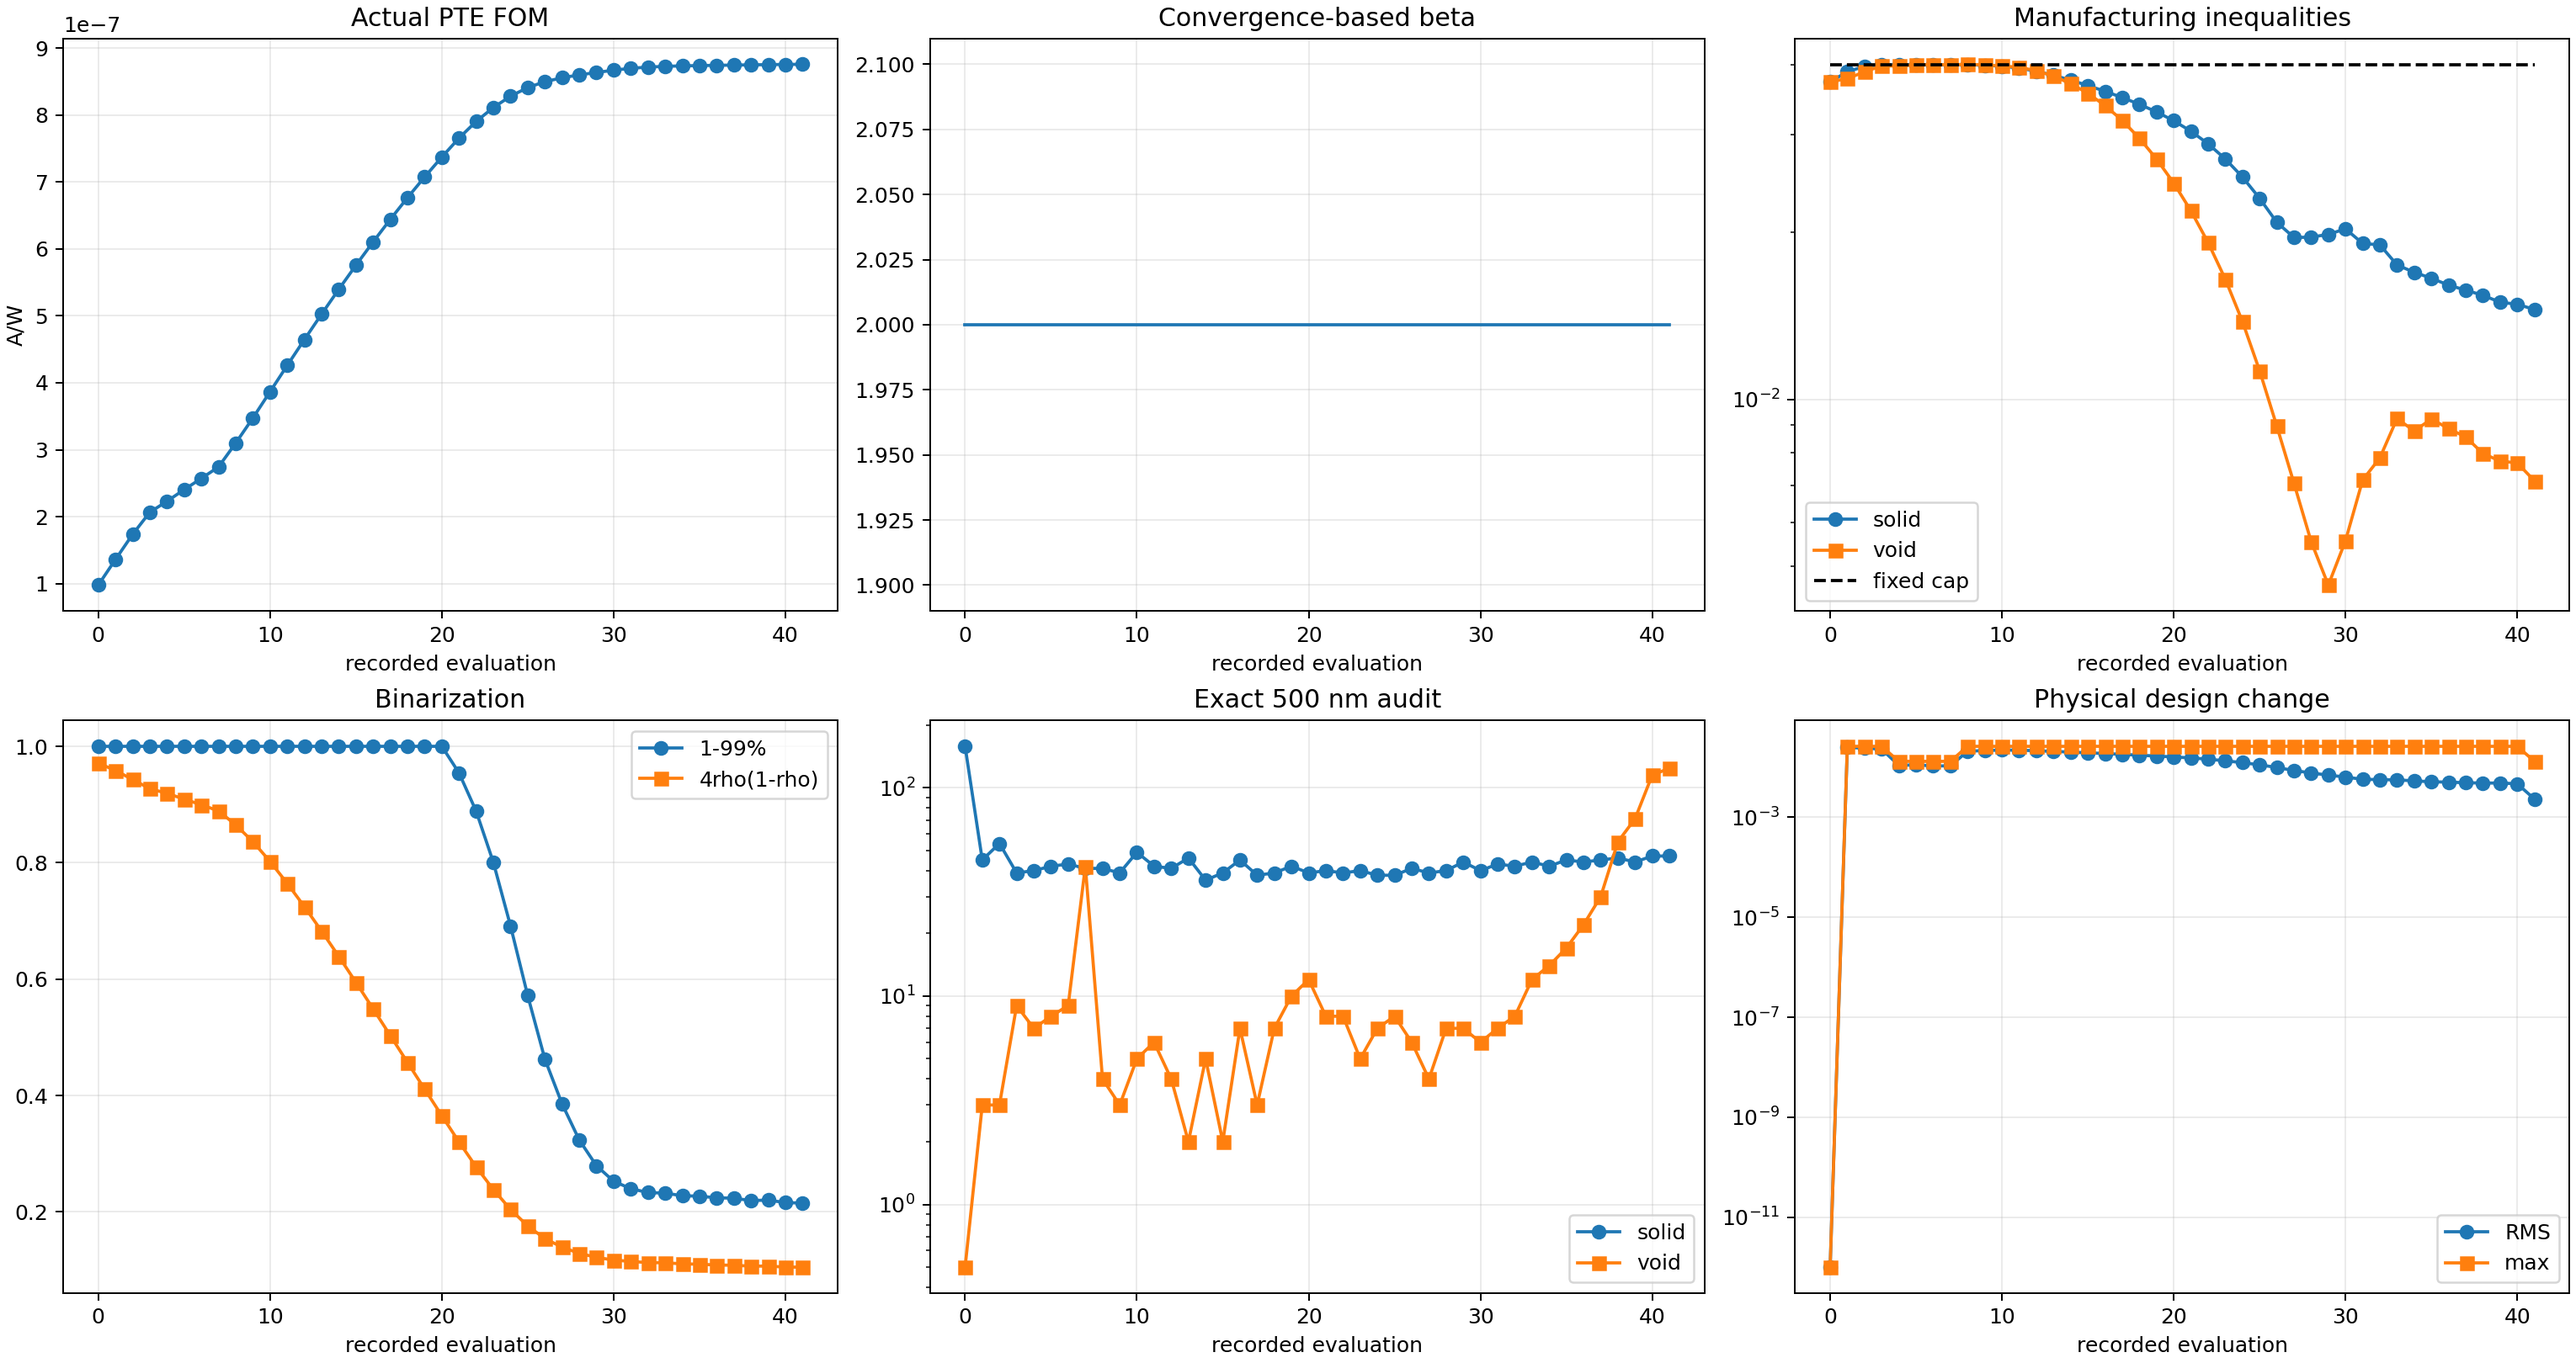
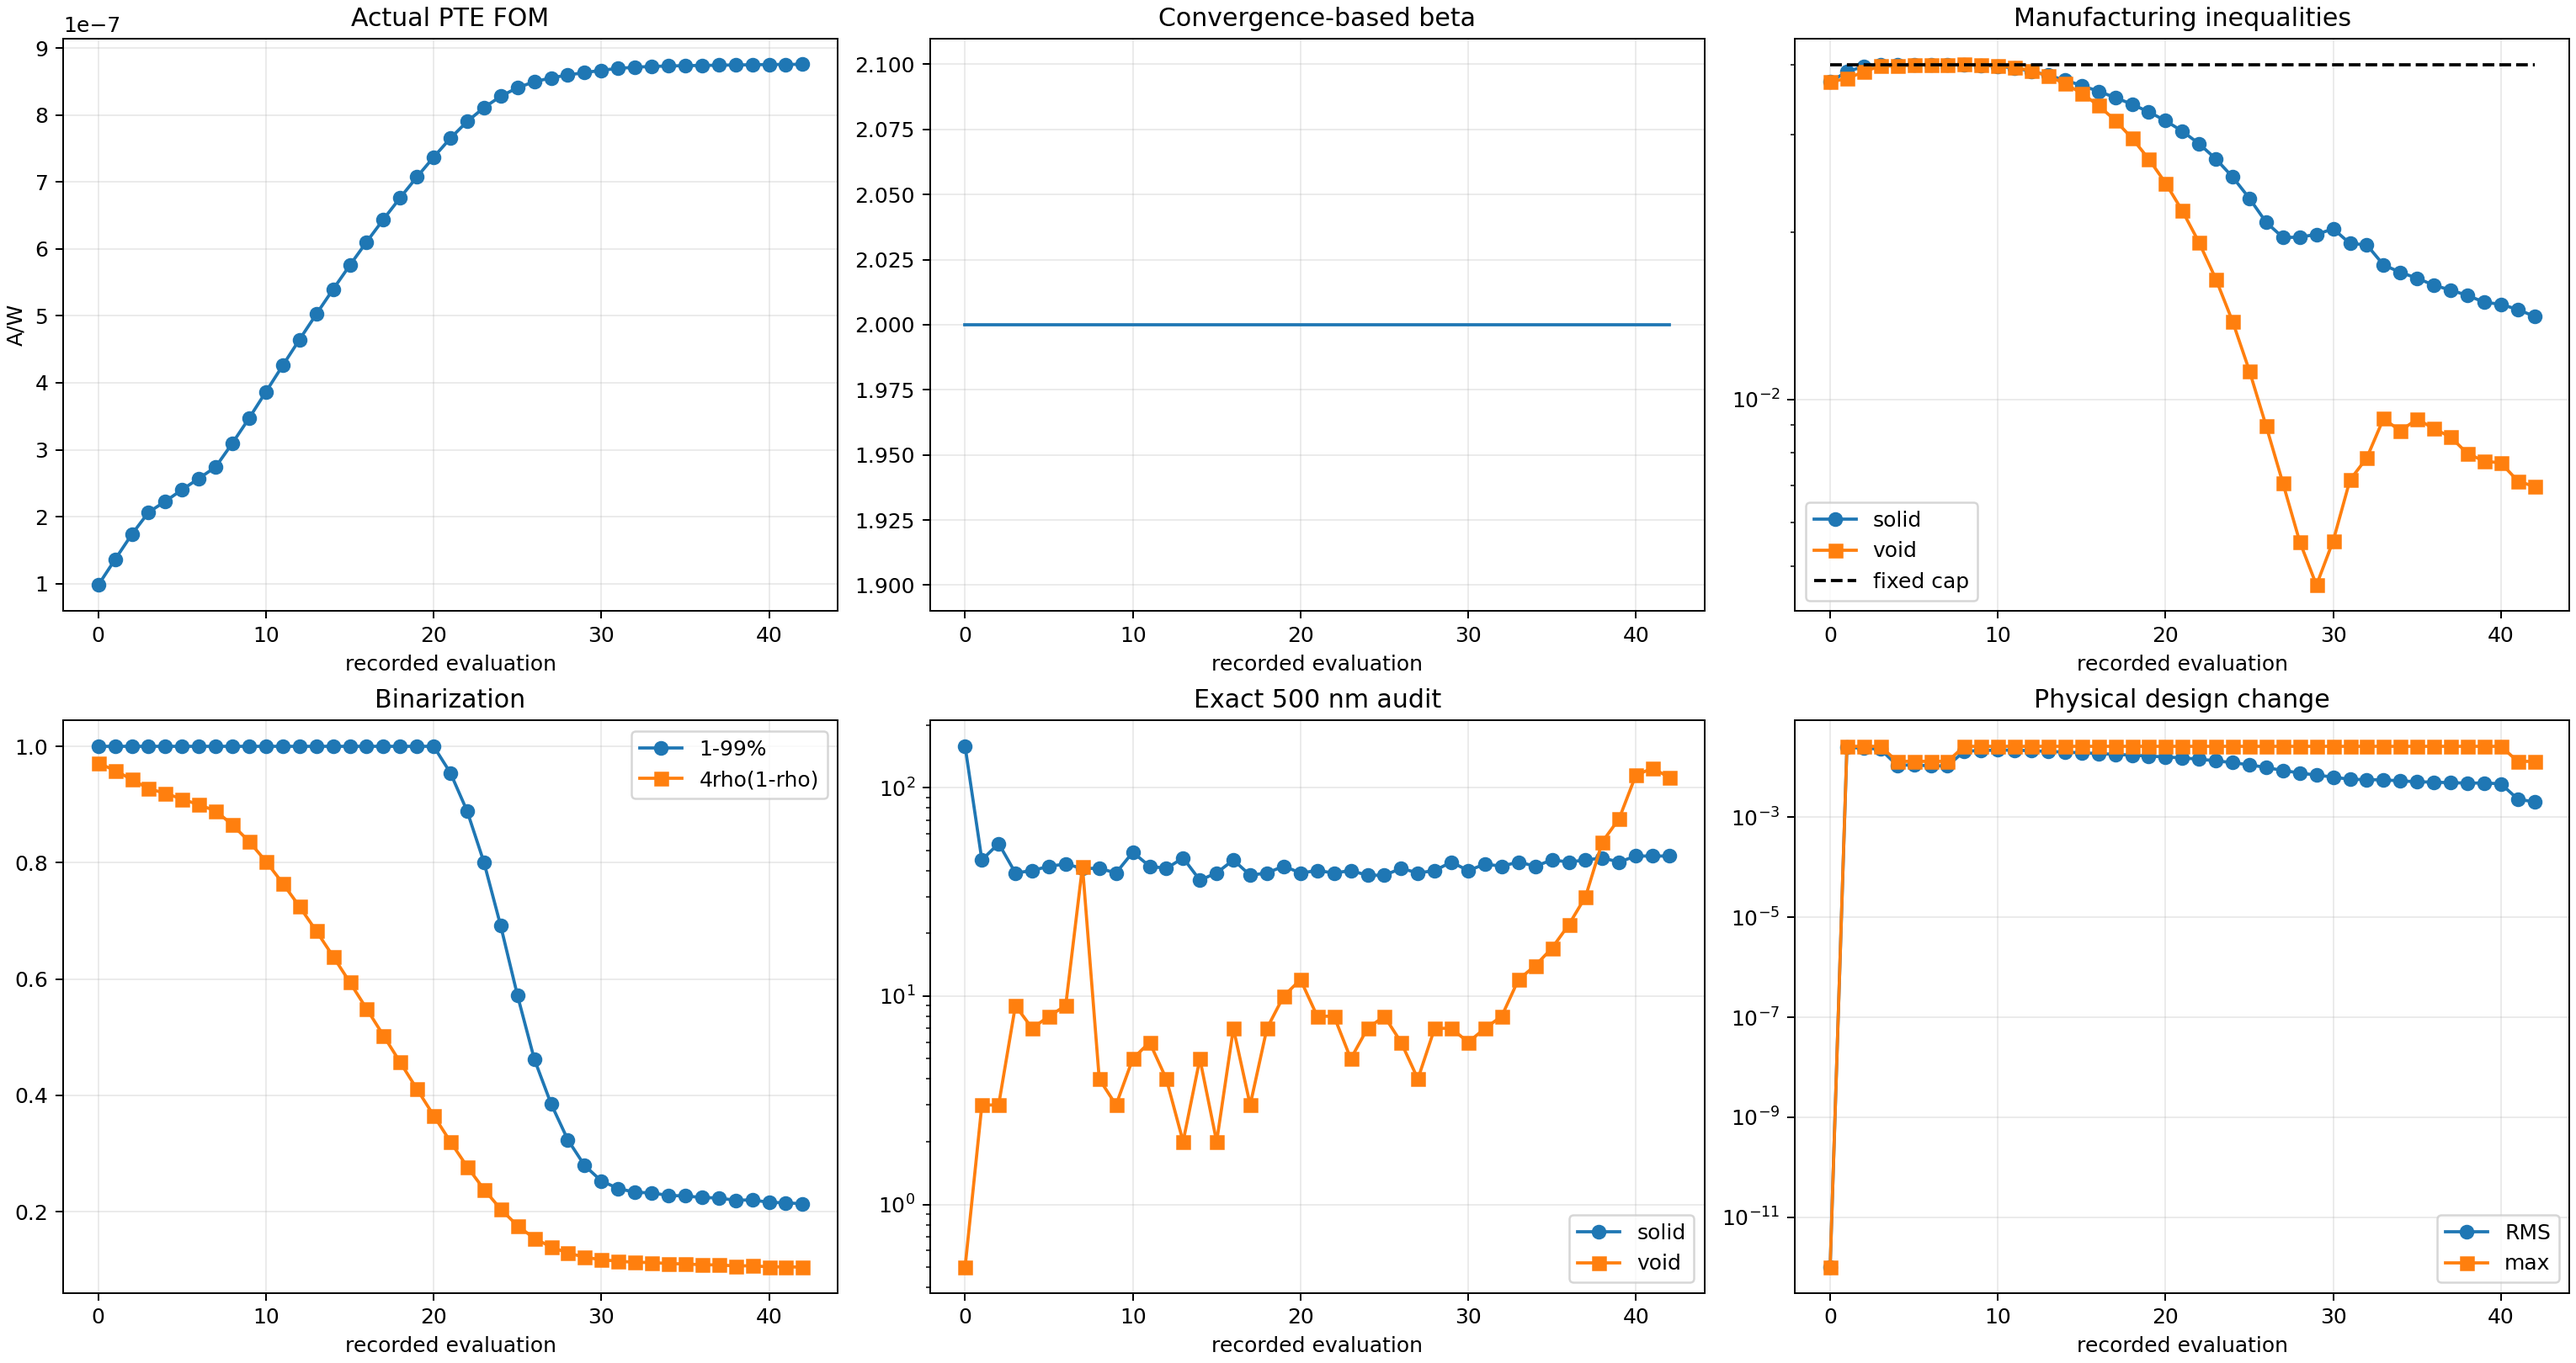
Record Run 003 run003_b002_s042_g042_accepted_mma

diff --git a/photothermal_pte/optimization_runs/run_003_gaussian10_w8p5_current_max_converged/results/OPTIMIZATION_REPORT.md b/photothermal_pte/optimization_runs/run_003_gaussian10_w8p5_current_max_converged/results/OPTIMIZATION_REPORT.md
@@ -2,10 +2,10 @@
 
 Status: `RUNNING_CONVERGENCE_BASED_CONSTRAINED_BETA_CONTINUATION`
 
-Current stage: beta=2, accepted stage iteration=41, global iteration=41.
+Current stage: beta=2, accepted stage iteration=42, global iteration=42.
 
-Actual FOM: `8.756432067811e-07 A/W`. Fixed-cap solid/void constraints: `1.450982e-02` / `7.127759e-03` with cap `4.000000e-02`.
+Actual FOM: `8.757966647941e-07 A/W`. Fixed-cap solid/void constraints: `1.410357e-02` / `6.957375e-03` with cap `4.000000e-02`.
 
-Exact 500 nm bad cells: solid `47`, void `124`. Stage convergence: `False` (recent FOM/density changes have not plateaued).
+Exact 500 nm bad cells: solid `47`, void `112`. Stage convergence: `False` (recent FOM/density changes have not plateaued).
 
 Beta is promoted only after fixed-inequality feasibility and a four-update FOM/design plateau; it is never promoted after one nominal update.
